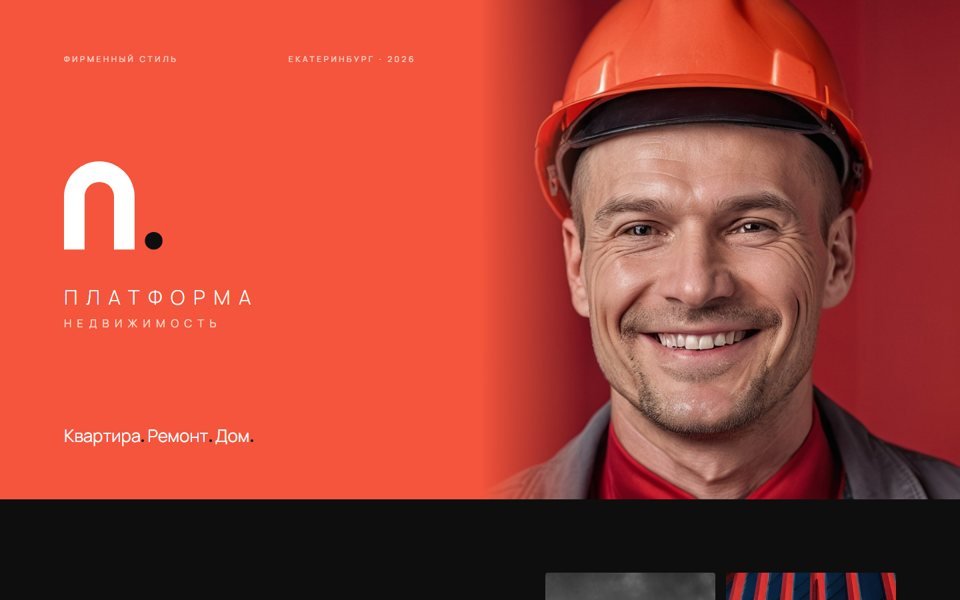
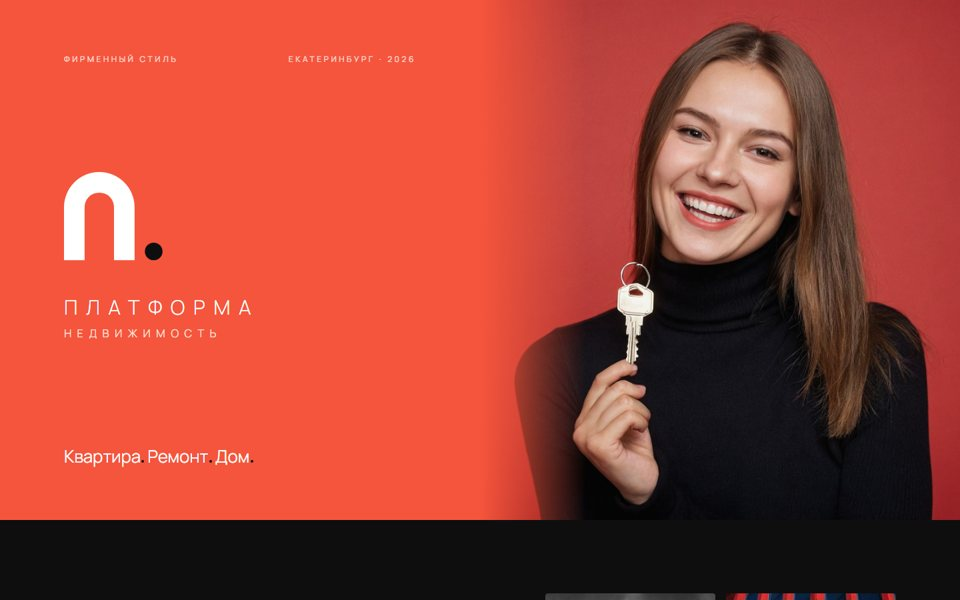
Презентация: консультант на обложке, носители и тексты под модель продаж, масштаб на весь экран

diff --git a/07_Презентация/index.html b/07_Презентация/index.html
@@ -1,5 +1,6 @@
 <!doctype html><html lang="ru"><head><meta charset="utf-8"><meta name="viewport" content="width=device-width,initial-scale=1">
 <title>Платформа недвижимости — бренд</title>
+<script>function fit(){var w=innerWidth;document.documentElement.style.zoom=w>1440?w/1440:1}fit();addEventListener("resize",fit)</script>
 <link href="https://fonts.googleapis.com/css2?family=Manrope:wght@300;400;500;600;700;800&display=swap" rel="stylesheet">
 <style>
 *{box-sizing:border-box}html{background:#00FF00}body{margin:0;background:#F4F2EE;color:#161617;font:400 16px/1.5 Manrope,system-ui,sans-serif}
@@ -15,10 +16,10 @@ p.lead{font-size:20px;line-height:1.55;max-width:620px;color:inherit;opacity:.85
 .dark{background:#0E0E0F;color:#F4F2EE}.red{background:#F5553C;color:#fff}.gray{background:#ECEAE6}.white{background:#fff}
 .dark .lab,.red .lab{color:#ffffff8c}.red .lab b{color:#0E0E0F}
 /* cover */
-.cover{height:clamp(640px,52vw,1200px);background:#F5553C;display:grid;grid-template-columns:1fr 1fr}
-.cover .l svg{width:clamp(150px,10vw,260px);height:auto}
+.cover{height:780px;background:#F5553C;display:grid;grid-template-columns:1fr 1fr}
+.cover .l svg{width:150px;height:auto}
 .cover .l{padding:80px 96px;display:flex;flex-direction:column;justify-content:space-between;color:#fff}
-.cover .r{background:url(photo/worker.jpg) 50% 22%/cover;position:relative}
+.cover .r{background:url(photo/advisor.jpg) 50% 30%/cover;position:relative}
 .cover .r::after{content:'';position:absolute;inset:0;background:linear-gradient(90deg,#F5553C 0%,#F5553C00 22%)}
 .cover .meta{display:flex;justify-content:space-between;font-size:12px;letter-spacing:.3em;text-transform:uppercase;opacity:.8}
 /* about */
@@ -126,7 +127,7 @@ p.lead{font-size:20px;line-height:1.55;max-width:620px;color:inherit;opacity:.85
     <div><svg width="150" height="132.4" viewBox="0 0 68 60" role="img" aria-label="Знак «П.»" style="overflow:visible;display:block"><path d="M0 60 V24 A24 24 0 0 1 48 24 V60 H34 V24 A10 10 0 0 0 14 24 V60 Z" fill="#FFFFFF"/><circle cx="61" cy="54" r="6" fill="#0E0E0F"/></svg><div style="margin-top:56px"><div style="display:flex;flex-direction:column;align-items:flex-start"><div style="font:300 30px/1 Manrope,sans-serif;letter-spacing:.42em;margin-right:-.42em;color:#FFFFFF;white-space:nowrap">ПЛАТФОРМА</div><div style="font:400 16.5px/1 Manrope,sans-serif;letter-spacing:.5em;margin-right:-.5em;color:#FFE1DB;white-space:nowrap;margin-top:16px">НЕДВИЖИМОСТЬ</div></div></div></div>
     <div style="font:400 26px/1.2 Manrope;letter-spacing:-.01em"><em class="nw">Квартира<i class="o n"></i></em> <em class="nw">Ремонт<i class="o n"></i></em> <em class="nw">Дом<i class="o n"></i></em></div>
   </div>
-  <div class="r" role="img" aria-label="Прораб в красной каске"></div>
+  <div class="r" role="img" aria-label="Консультант Платформы с ключами от квартиры"></div>
 </section>
 
 <section class="dark"><div class="in">
@@ -137,8 +138,8 @@ p.lead{font-size:20px;line-height:1.55;max-width:620px;color:inherit;opacity:.85
   </div>
   <div class="trio">
     <div><b><em class="nw">Квартиры<i class="o"></i></em></b><span>Новостройки и вторичное жильё Екатеринбурга только от проверенных застройщиков. Подбор, самая выгодная ипотека, сопровождение сделки.</span></div>
-    <div><b><em class="nw">Ремонт<i class="o"></i></em></b><span>Бригады, за которые мы ручаемся. Смета и сроки — до начала работ, приёмка каждого этапа.</span></div>
-    <div><b><em class="nw">Дома<i class="o"></i></em></b><span>Каменные дома по готовым и индивидуальным проектам — от фундамента до ключей, руками проверенных строителей.</span></div>
+    <div><b><em class="nw">Ремонт<i class="o"></i></em></b><span>Ремонт у партнёров, за которых мы ручаемся. Смета и сроки — до начала работ, приёмка каждого этапа.</span></div>
+    <div><b><em class="nw">Дома<i class="o"></i></em></b><span>Каменные дома от проверенных строителей-партнёров — по готовым и индивидуальным проектам.</span></div>
   </div>
 </div></section>
 
@@ -223,9 +224,9 @@ p.lead{font-size:20px;line-height:1.55;max-width:620px;color:inherit;opacity:.85
   <div class="lab"><b>10</b> Носители</div><h2>В городе и на <em class="nw">стройке<i class="o"></i></em></h2>
   <div class="g">
     <figure class="ph c8"><img src="photo/P_facade.jpg" alt="световая вывеска офиса" style="object-position:center"><figcaption>световая вывеска офиса</figcaption></figure>
-    <div style="grid-column:span 4;display:grid;gap:16px"><figure class="ph c4"><img src="photo/P_helmet.jpg" alt="каска" style="object-position:50% 62%"><figcaption>каска</figcaption></figure><figure class="ph c4"><img src="photo/P_keys.jpg" alt="брелок" style="object-position:60% 50%"><figcaption>брелок</figcaption></figure></div>
-    <figure class="ph c6"><img src="photo/P_fence.jpg" alt="ограждение стройки" style="object-position:50% 60%"><figcaption>ограждение стройки</figcaption></figure><figure class="ph c6"><img src="photo/P_billboard.jpg" alt="билборд" style="object-position:68% 45%"><figcaption>билборд</figcaption></figure>
-    <figure class="ph c4b"><img src="photo/P_vest.jpg" alt="спецодежда" style="object-position:62% 60%"><figcaption>спецодежда</figcaption></figure><figure class="ph c4b"><img src="photo/P_bag.jpg" alt="пакет для документов" style="object-position:50% 65%"><figcaption>пакет для документов</figcaption></figure><figure class="ph c4b"><img src="photo/P_plate.jpg" alt="паспорт объекта" style="object-position:50% 35%"><figcaption>паспорт объекта</figcaption></figure>
+    <div style="grid-column:span 4;display:grid;gap:16px"><figure class="ph c4"><img src="photo/P_helmet.jpg" alt="каска инспектора" style="object-position:50% 62%"><figcaption>каска инспектора</figcaption></figure><figure class="ph c4"><img src="photo/P_keys.jpg" alt="брелок" style="object-position:60% 50%"><figcaption>брелок</figcaption></figure></div>
+    <figure class="ph c6"><img src="photo/P_fence.jpg" alt="ограждение объекта партнёра" style="object-position:50% 60%"><figcaption>ограждение объекта партнёра</figcaption></figure><figure class="ph c6"><img src="photo/P_billboard.jpg" alt="билборд" style="object-position:68% 45%"><figcaption>билборд</figcaption></figure>
+    <figure class="ph c4b"><img src="photo/P_vest.jpg" alt="жилет инспектора" style="object-position:62% 60%"><figcaption>жилет инспектора</figcaption></figure><figure class="ph c4b"><img src="photo/P_bag.jpg" alt="пакет для документов" style="object-position:50% 65%"><figcaption>пакет для документов</figcaption></figure><figure class="ph c4b"><img src="photo/P_plate.jpg" alt="паспорт объекта с отметкой о проверке" style="object-position:50% 35%"><figcaption>паспорт объекта с отметкой о проверке</figcaption></figure>
   </div>
 </div></section>
 
@@ -237,7 +238,7 @@ p.lead{font-size:20px;line-height:1.55;max-width:620px;color:inherit;opacity:.85
       <div class="post" style="background:#F5553C;color:#fff"><div style="font:500 34px/1.05 Manrope;letter-spacing:-.03em"><em class="nw">Проверено<i class="o n"></i></em><br><em class="nw">Выгодно<i class="o n"></i></em><br><em class="nw">Ясно<i class="o n"></i></em></div><svg width="40" height="35.3" viewBox="0 0 68 60" role="img" aria-label="Знак «П.»" style="overflow:visible;display:block"><path d="M0 60 V24 A24 24 0 0 1 48 24 V60 H34 V24 A10 10 0 0 0 14 24 V60 Z" fill="#FFFFFF"/><circle cx="61" cy="54" r="6" fill="#0E0E0F"/></svg></div>
       <div class="post" style="background:url(photo/kv_living2.jpg) center/cover;color:#fff;justify-content:flex-end"><div style="position:absolute;inset:0;background:linear-gradient(0deg,#000a,#0000 60%)"></div><div style="position:relative"><div style="font:500 20px/1.15 Manrope">Квартира с <em class="nw">ремонтом<i class="o"></i></em></div><div style="font-size:12px;opacity:.85">2-комн. · [ПЛОЩАДЬ] м² · от [ЦЕНА] ₽</div></div></div>
       <div class="post" style="background:#0E0E0F;color:#F4F2EE"><div style="font-size:11px;letter-spacing:.2em;color:#8A867F">ВАШ ДОМ</div><div><div style="font:500 26px/1.1 Manrope">Этап 3 из 7 <em class="nw">принят<i class="o"></i></em></div>
-        <div style="display:flex;gap:5px;margin-top:14px"><i style="display:block;width:22px;height:5px;border-radius:3px;background:#F5553C"></i><i style="display:block;width:22px;height:5px;border-radius:3px;background:#F5553C"></i><i style="display:block;width:22px;height:5px;border-radius:3px;background:#F5553C"></i><i style="display:block;width:22px;height:5px;border-radius:3px;background:#3A3A3D"></i><i style="display:block;width:22px;height:5px;border-radius:3px;background:#3A3A3D"></i><i style="display:block;width:22px;height:5px;border-radius:3px;background:#3A3A3D"></i><i style="display:block;width:22px;height:5px;border-radius:3px;background:#3A3A3D"></i></div><div style="font-size:12px;color:#8A867F;margin-top:10px">Кладка стен · приёмка прораба</div></div></div>
+        <div style="display:flex;gap:5px;margin-top:14px"><i style="display:block;width:22px;height:5px;border-radius:3px;background:#F5553C"></i><i style="display:block;width:22px;height:5px;border-radius:3px;background:#F5553C"></i><i style="display:block;width:22px;height:5px;border-radius:3px;background:#F5553C"></i><i style="display:block;width:22px;height:5px;border-radius:3px;background:#3A3A3D"></i><i style="display:block;width:22px;height:5px;border-radius:3px;background:#3A3A3D"></i><i style="display:block;width:22px;height:5px;border-radius:3px;background:#3A3A3D"></i><i style="display:block;width:22px;height:5px;border-radius:3px;background:#3A3A3D"></i></div><div style="font-size:12px;color:#8A867F;margin-top:10px">Кладка стен · проверено Платформой</div></div></div>
     </div></div>
 </div></section>
 

diff --git a/tools/p_present.py b/tools/p_present.py
@@ -184,6 +184,7 @@ def page():
     car = lambda n, cap, cls, pos='center': f'<figure class="ph {cls}"><img src="photo/P_{n}.jpg" alt="{cap}" style="object-position:{pos}"><figcaption>{cap}</figcaption></figure>'
     return f'''<!doctype html><html lang="ru"><head><meta charset="utf-8"><meta name="viewport" content="width=device-width,initial-scale=1">
 <title>Платформа недвижимости — бренд</title>
+<script>function fit(){{var w=innerWidth;document.documentElement.style.zoom=w>1440?w/1440:1}}fit();addEventListener("resize",fit)</script>
 <link href="https://fonts.googleapis.com/css2?family=Manrope:wght@300;400;500;600;700;800&display=swap" rel="stylesheet">
 <style>
 *{{box-sizing:border-box}}html{{background:#00FF00}}body{{margin:0;background:{MILK};color:{INK};font:400 16px/1.5 Manrope,system-ui,sans-serif}}
@@ -199,10 +200,10 @@ p.lead{{font-size:20px;line-height:1.55;max-width:620px;color:inherit;opacity:.8
 .dark{{background:{NIGHT};color:{MILK}}}.red{{background:{RED};color:#fff}}.gray{{background:{GRAY}}}.white{{background:#fff}}
 .dark .lab,.red .lab{{color:#ffffff8c}}.red .lab b{{color:{NIGHT}}}
 /* cover */
-.cover{{height:clamp(640px,52vw,1200px);background:{RED};display:grid;grid-template-columns:1fr 1fr}}
-.cover .l svg{{width:clamp(150px,10vw,260px);height:auto}}
+.cover{{height:780px;background:{RED};display:grid;grid-template-columns:1fr 1fr}}
+.cover .l svg{{width:150px;height:auto}}
 .cover .l{{padding:80px 96px;display:flex;flex-direction:column;justify-content:space-between;color:#fff}}
-.cover .r{{background:url(photo/worker.jpg) 50% 22%/cover;position:relative}}
+.cover .r{{background:url(photo/advisor.jpg) 50% 30%/cover;position:relative}}
 .cover .r::after{{content:'';position:absolute;inset:0;background:linear-gradient(90deg,{RED} 0%,#F5553C00 22%)}}
 .cover .meta{{display:flex;justify-content:space-between;font-size:12px;letter-spacing:.3em;text-transform:uppercase;opacity:.8}}
 /* about */
@@ -310,7 +311,7 @@ p.lead{{font-size:20px;line-height:1.55;max-width:620px;color:inherit;opacity:.8
     <div>{mark(150, WHITE, NIGHT)}<div style="margin-top:56px">{word(WHITE, 30, "#FFE1DB")}</div></div>
     <div style="font:400 26px/1.2 Manrope;letter-spacing:-.01em">Квартира<i class="o n"></i> Ремонт<i class="o n"></i> Дом<i class="o n"></i></div>
   </div>
-  <div class="r" role="img" aria-label="Прораб в красной каске"></div>
+  <div class="r" role="img" aria-label="Консультант Платформы с ключами от квартиры"></div>
 </section>
 
 <section class="dark"><div class="in">
@@ -321,8 +322,8 @@ p.lead{{font-size:20px;line-height:1.55;max-width:620px;color:inherit;opacity:.8
   </div>
   <div class="trio">
     <div><b>Квартиры{D}</b><span>Новостройки и вторичное жильё Екатеринбурга только от проверенных застройщиков. Подбор, самая выгодная ипотека, сопровождение сделки.</span></div>
-    <div><b>Ремонт{D}</b><span>Бригады, за которые мы ручаемся. Смета и сроки — до начала работ, приёмка каждого этапа.</span></div>
-    <div><b>Дома{D}</b><span>Каменные дома по готовым и индивидуальным проектам — от фундамента до ключей, руками проверенных строителей.</span></div>
+    <div><b>Ремонт{D}</b><span>Ремонт у партнёров, за которых мы ручаемся. Смета и сроки — до начала работ, приёмка каждого этапа.</span></div>
+    <div><b>Дома{D}</b><span>Каменные дома от проверенных строителей-партнёров — по готовым и индивидуальным проектам.</span></div>
   </div>
 </div></section>
 
@@ -407,9 +408,9 @@ p.lead{{font-size:20px;line-height:1.55;max-width:620px;color:inherit;opacity:.8
   <div class="lab"><b>10</b> Носители</div><h2>В городе и на стройке{D}</h2>
   <div class="g">
     {car('facade', 'световая вывеска офиса', 'c8')}
-    <div style="grid-column:span 4;display:grid;gap:16px">{car('helmet', 'каска', 'c4', '50% 62%')}{car('keys', 'брелок', 'c4', '60% 50%')}</div>
-    {car('fence', 'ограждение стройки', 'c6', '50% 60%')}{car('billboard', 'билборд', 'c6', '68% 45%')}
-    {car('vest', 'спецодежда', 'c4b', '62% 60%')}{car('bag', 'пакет для документов', 'c4b', '50% 65%')}{car('plate', 'паспорт объекта', 'c4b', '50% 35%')}
+    <div style="grid-column:span 4;display:grid;gap:16px">{car('helmet', 'каска инспектора', 'c4', '50% 62%')}{car('keys', 'брелок', 'c4', '60% 50%')}</div>
+    {car('fence', 'ограждение объекта партнёра', 'c6', '50% 60%')}{car('billboard', 'билборд', 'c6', '68% 45%')}
+    {car('vest', 'жилет инспектора', 'c4b', '62% 60%')}{car('bag', 'пакет для документов', 'c4b', '50% 65%')}{car('plate', 'паспорт объекта с отметкой о проверке', 'c4b', '50% 35%')}
   </div>
 </div></section>
 
@@ -421,7 +422,7 @@ p.lead{{font-size:20px;line-height:1.55;max-width:620px;color:inherit;opacity:.8
       <div class="post" style="background:{RED};color:#fff"><div style="font:500 34px/1.05 Manrope;letter-spacing:-.03em">Проверено<i class="o n"></i><br>Выгодно<i class="o n"></i><br>Ясно<i class="o n"></i></div>{mark(40, WHITE, NIGHT)}</div>
       <div class="post" style="background:url(photo/kv_living2.jpg) center/cover;color:#fff;justify-content:flex-end"><div style="position:absolute;inset:0;background:linear-gradient(0deg,#000a,#0000 60%)"></div><div style="position:relative"><div style="font:500 20px/1.15 Manrope">Квартира с ремонтом{D}</div><div style="font-size:12px;opacity:.85">2-комн. · [ПЛОЩАДЬ] м² · от [ЦЕНА] ₽</div></div></div>
       <div class="post" style="background:{NIGHT};color:{MILK}"><div style="font-size:11px;letter-spacing:.2em;color:#8A867F">ВАШ ДОМ</div><div><div style="font:500 26px/1.1 Manrope">Этап 3 из 7 принят{D}</div>
-        <div style="display:flex;gap:5px;margin-top:14px">{"".join(f'<i style="display:block;width:22px;height:5px;border-radius:3px;background:{RED if i < 3 else "#3A3A3D"}"></i>' for i in range(7))}</div><div style="font-size:12px;color:#8A867F;margin-top:10px">Кладка стен · приёмка прораба</div></div></div>
+        <div style="display:flex;gap:5px;margin-top:14px">{"".join(f'<i style="display:block;width:22px;height:5px;border-radius:3px;background:{RED if i < 3 else "#3A3A3D"}"></i>' for i in range(7))}</div><div style="font-size:12px;color:#8A867F;margin-top:10px">Кладка стен · проверено Платформой</div></div></div>
     </div></div>
 </div></section>
 

diff --git a/tools/patches/pres_v3_seller.py b/tools/patches/pres_v3_seller.py
@@ -1,0 +1,45 @@
+"""Презентация: модель «продаём мы — делают проверенные», новая обложка, масштаб на весь экран.
+Run из корня репо: py -3 tools/patches/pres_v3_seller.py"""
+p = 'tools/p_present.py'
+s = open(p, encoding='utf8').read()
+
+
+def rep(a, b):
+    global s
+    assert s.count(a) == 1, (s.count(a), a[:90])
+    s = s.replace(a, b)
+
+
+# обложка: консультант с ключами вместо прораба; фиксированная высота (масштаб даёт zoom)
+rep('.cover{{height:clamp(640px,52vw,1200px);', '.cover{{height:780px;')
+rep('.cover .l svg{{width:clamp(150px,10vw,260px);height:auto}}', '.cover .l svg{{width:150px;height:auto}}')
+rep('.cover .r{{background:url(photo/worker.jpg) 50% 22%/cover;', '.cover .r{{background:url(photo/advisor.jpg) 50% 30%/cover;')
+rep('aria-label="Прораб в красной каске"', 'aria-label="Консультант Платформы с ключами от квартиры"')
+
+# на весь экран: вся страница масштабируется от базовой ширины 1440 (как изображения на Behance)
+rep('<title>Платформа недвижимости — бренд</title>',
+    '<title>Платформа недвижимости — бренд</title>\n'
+    '<script>function fit(){{var w=innerWidth;document.documentElement.style.zoom=w>1440?w/1440:1}}fit();addEventListener("resize",fit)</script>')
+
+# тексты: продаём мы — делают проверенные партнёры
+rep('<span>Бригады, за которые мы ручаемся. Смета и сроки — до начала работ, приёмка каждого этапа.</span>',
+    '<span>Ремонт у партнёров, за которых мы ручаемся. Смета и сроки — до начала работ, приёмка каждого этапа.</span>')
+rep('<span>Каменные дома по готовым и индивидуальным проектам — от фундамента до ключей, руками проверенных строителей.</span>',
+    '<span>Каменные дома от проверенных строителей-партнёров — по готовым и индивидуальным проектам.</span>')
+rep("car('helmet', 'каска', 'c4', '50% 62%')", "car('helmet', 'каска инспектора', 'c4', '50% 62%')")
+rep("car('vest', 'спецодежда', 'c4b', '62% 60%')", "car('vest', 'жилет инспектора', 'c4b', '62% 60%')")
+rep("car('fence', 'ограждение стройки', 'c6', '50% 60%')", "car('fence', 'ограждение объекта партнёра', 'c6', '50% 60%')")
+rep("'паспорт объекта'", "'паспорт объекта с отметкой о проверке'")
+rep('Кладка стен · приёмка прораба', 'Кладка стен · проверено Платформой')
+
+open(p, 'w', encoding='utf8').write(s)
+
+# носители: забор и паспорт объекта — партнёрский объект, отметка о проверке
+m = 'tools/mockups/p_mockups.py'
+t = open(m, encoding='utf8').read()
+for a, b in [('Здесь строится<br>каменный дом<span style="color:{INK}">.</span>', 'Этот дом<br>проверен<span style="color:{INK}">.</span>'),
+             ("('Подрядчик', 'ПЛАТФОРМА НЕДВИЖИМОСТЬ')", "('Подрядчик', '[НАЗВАНИЕ]'), ('Проверено', 'ПЛАТФОРМА НЕДВИЖИМОСТЬ')")]:
+    assert t.count(a) == 1, a
+    t = t.replace(a, b)
+open(m, 'w', encoding='utf8').write(t)
+print('ok')

diff --git a/tools/mockups/p_mockups.py b/tools/mockups/p_mockups.py
@@ -64,13 +64,13 @@ def art_html(v, surf):
     if surf == 'fence':
         body = (f'<div style="position:absolute;inset:0;background:{RED};display:flex;align-items:center;justify-content:space-between;padding:0 64px 0 70px;box-sizing:border-box">'
                 f'{h_lock(80, 30, MILK, INK, "#FFE1DA")}'
-                f'<div style="display:flex;align-items:center;gap:34px"><div style="font:500 40px/1.05 Manrope,sans-serif;letter-spacing:-.02em;color:{MILK};text-align:right">Здесь строится<br>каменный дом<span style="color:{INK}">.</span></div>'
+                f'<div style="display:flex;align-items:center;gap:34px"><div style="font:500 40px/1.05 Manrope,sans-serif;letter-spacing:-.02em;color:{MILK};text-align:right">Этот дом<br>проверен<span style="color:{INK}">.</span></div>'
                 f'<span style="padding:22px 34px;border-radius:999px;background:{MILK};color:{INK};font:600 24px Manrope,sans-serif;white-space:nowrap">+7 965 500-29-18</span></div></div>')
         return M.page(V, w, h, body, RED)
     if surf == 'store':
         return M.page(V, w, h, C(h_lock(70, 26)))
     if surf == 'plate':
-        rows = (('Объект', 'Индивидуальный жилой дом'), ('Материал', 'кирпич, 2 этажа'), ('Заказчик', '[ФИО]'), ('Подрядчик', 'ПЛАТФОРМА НЕДВИЖИМОСТЬ'),
+        rows = (('Объект', 'Индивидуальный жилой дом'), ('Материал', 'кирпич, 2 этажа'), ('Заказчик', '[ФИО]'), ('Подрядчик', '[НАЗВАНИЕ]'), ('Проверено', 'ПЛАТФОРМА НЕДВИЖИМОСТЬ'),
                 ('Начало работ', '[ДАТА]'), ('Окончание', '[ДАТА]'), ('Прораб', '[ФИО]'), ('Телефон', '+7 965 500-29-18'))
         rr = ''.join(f'<div style="display:flex;justify-content:space-between;gap:8px;padding:5px 0;border-bottom:1px solid #D9D5CE;font:400 10.5px Manrope,sans-serif"><span style="color:#6E6A63">{a}</span><span style="color:{INK};text-align:right">{b}</span></div>' for a, b in rows)
         body = (f'<div style="position:absolute;left:30px;right:30px;top:34px;bottom:34px;display:flex;flex-direction:column;gap:12px">'
